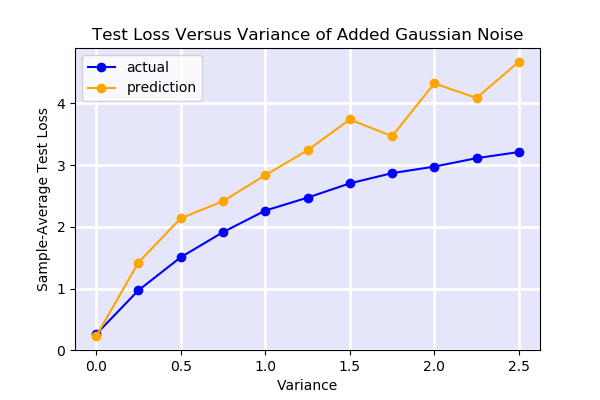
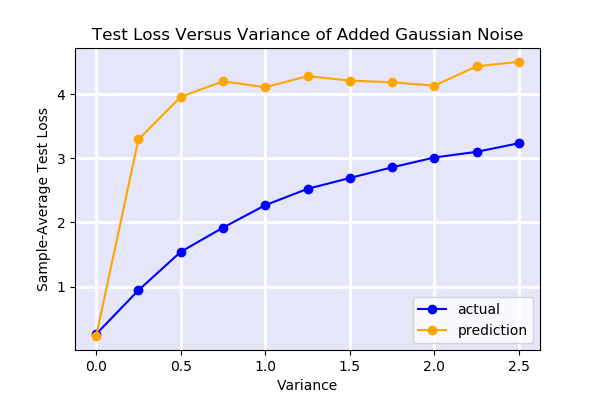
alaa methods with x sampling

diff --git a/predicting.py b/predicting.py
@@ -6,9 +6,7 @@ from utils import AddNoise
 
 from train import train_eval_, test_eval_
 
-
-
-def get_predictions(net, var, train_loader, test_loader, opt, flatten=True):
+def get_predictions(net, var, train_loader, test_loader, opt, flatten=True, eps=1e-2):
     def bw_dot(z1,z2):
         z3 = torch.ones(z1.shape[0])
         if opt.cuda: z3 = z3.cuda()
@@ -60,11 +58,76 @@ def get_predictions(net, var, train_loader, test_loader, opt, flatten=True):
                 Hv = torch.autograd.grad(grad_x, x, grad_outputs=delta, retain_graph=True)[0]
                 second_order = bw_dot(delta,Hv).mean()
                 pred_loss = first_order + 0.5 * second_order
-                
+
             if opt.prediction == 'alaa':
                 
-                pred_loss = 0
+                x.requires_grad = True
+                phi_S = torch.stack([torch.zeros(1),torch.ones(1)*var_cur]).view(-1)
 
+                #Shifting:
+                mean_S = phi_S[0]
+                var_S = phi_S[1]
+                mean_S.requires_grad=True
+                var_S.requires_grad=True
+                x = x + (mean_S + torch.randn(x.shape)*torch.sqrt(var_S))
+                
+                outputs = net.forward(x)
+                loss_orig = loss_metric(outputs,y)
+
+                #get gradient w.r.t. shift parameters at 0:
+                grad_phi_S = torch.stack(torch.autograd.grad(loss_orig, [mean_S, var_S], retain_graph=True)).view(-1)               
+                first_order = grad_phi_S.dot(phi_S)
+                if first_order != first_order: #nan check
+                    first_order = 0
+                pred_loss = loss_orig + first_order
+
+            if opt.prediction == 'alaa2': #second order version
+                
+                x.requires_grad = True
+                phi_S = torch.stack([torch.zeros(1),torch.ones(1)*var_cur]).view(-1)
+                phi_S.requires_grad = True
+
+                #Shifting:
+                x = x + (phi_S[0] + torch.randn(x.shape)*torch.sqrt(phi_S[1]))
+                
+                outputs = net.forward(x)
+                loss_orig = loss_metric(outputs,y)
+
+                #get gradient w.r.t. shift parameters at phi_S:
+                grad_phi_S = torch.autograd.grad(loss_orig, phi_S, retain_graph=True)[0].view(-1)
+                first_order = grad_phi_S.dot(phi_S)
+                if first_order != first_order: #nan check
+                    first_order = 0
+                    
+                #get hessian w.r.t. shift parameters at phi_S:
+                grad_phi_S = torch.autograd.grad(loss_orig, phi_S, create_graph=True, retain_graph=True)[0]
+                H_phi_S = torch.autograd.grad(grad_phi_S, phi_S, grad_outputs=phi_S, retain_graph=True)[0]
+                second_order = phi_S.dot(H_phi_S)
+                if second_order != second_order: #nan check
+                    second_order = 0
+                
+                pred_loss = loss_orig + first_order + 0.5*second_order
+
+                
+            if opt.prediction == 'alaa_0': #T.S. expansion at phi = 0 instead
+                
+                x.requires_grad = True
+                phi_S = torch.stack([torch.zeros(1),torch.ones(1)*var_cur]).view(-1)
+
+                #"0"-shift prediction params: (needed so we can get a gradient at shift=0)
+                # eps = 1e-8
+                mean_0 = torch.zeros(1) + eps
+                var_0 = torch.zeros(1) + eps
+                mean_0.requires_grad=True
+                var_0.requires_grad=True
+                x = x + (mean_0 + torch.randn(x.shape)*torch.sqrt(var_0))
+                
+                outputs = net.forward(x)
+                loss_orig = loss_metric(outputs,y)
+
+                #get gradient w.r.t. shift parameters at 0:
+                grad_phi_0 = torch.stack(torch.autograd.grad(loss_orig, [mean_0, var_0], retain_graph=True)).view(-1)               
+                pred_loss = (loss_orig + torch.abs(grad_phi_0.dot(phi_S)))/opt.batchSize
                 
             est_loss += pred_loss#/opt.batchSize
         est_loss /= i+1

diff --git a/models.py b/models.py
@@ -1,11 +1,9 @@
 import torch.nn as nn
-
+import torch
 
 class MLP(nn.Module):
     def __init__(self, input_size=784, width=500, num_classes=10):
         super(MLP, self).__init__()
-
-
         self.ff1 = nn.Linear(input_size, width)
         self.ff2 = nn.Linear(width, width) 
         self.ff3 = nn.Linear(width, width)
@@ -21,19 +19,14 @@ class MLP(nn.Module):
         self.bn2 = nn.BatchNorm1d(width)
         self.bn3 = nn.BatchNorm1d(width)
         
-    def forward(self, x, bn = False):
-
-        # x = self.ff3(self.ff2(self.ff1(x)))
+        ##noise parameters (just to include as part of computational graph):
+        self.mean = nn.Parameter(torch.zeros(1),requires_grad=True)
+        self.var = nn.Parameter(torch.zeros(1),requires_grad=True)
         
-        # if not bn:        
-        #     x = self.relu(self.ff1(x))
-        #     x = self.relu(self.ff2(x))
-        #     x = self.relu(self.ff3(x))        
-        # elif bn:
-        #     x = self.relu(self.bn1(self.ff1(x)))
-        #     x = self.relu(self.bn2(self.ff2(x)))
-        #     x = self.relu(self.bn3(self.ff3(x)))            
+    def forward(self, x):
 
+        # noise = x.clone().normal_(self.mean, torch.sqrt(self.var))
+        # x = x + noise
         x = self.relu(self.bn1(self.ff1(x)))
         x = self.relu(self.bn2(self.ff2(x)))
         x = self.relu(self.bn3(self.ff3(x)))            

diff --git a/main.py b/main.py
@@ -41,7 +41,7 @@ net = MLP(input_size = 784, width = opt.netWidth)
 if opt.cuda:
     net = net.cuda()
 if opt.model_path != '':
-    net.load_state_dict(torch.load(opt.model_path))
+    net.load_state_dict(torch.load(opt.model_path),strict=False)
     
 #instantiate optimizer:
 optimizer = get_optimizer(net = net, lr = opt.lr, opt_str = opt.optim)
